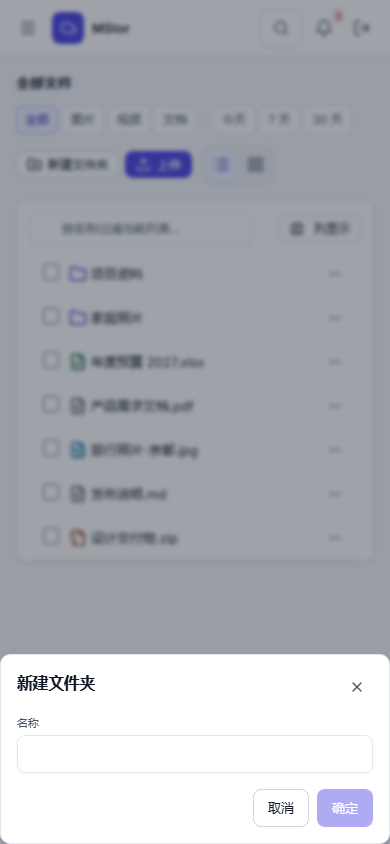
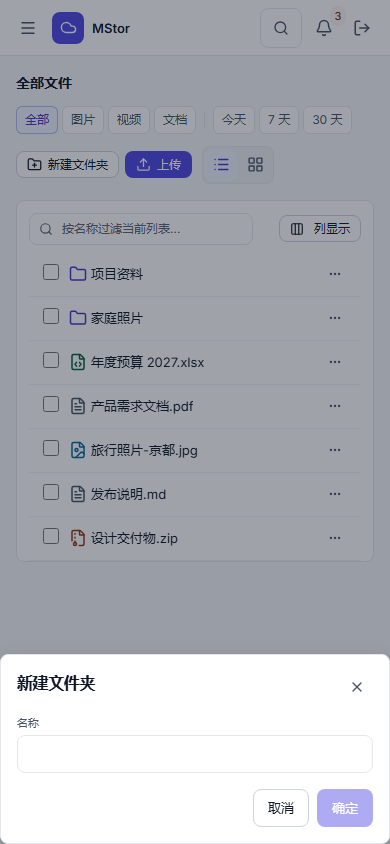
feat(design): v8 OpenDesign 校准（DESIGN.md / 平面表面 / 动效克制）
- 调研 OpenDesign 9 段 DESIGN.md schema 与 150+ 品牌设计系统，新增根 DESIGN.md
- 借鉴 Stripe/Linear/Vercel：中性导航 + 2px accent rail、内容卡片去投影、card 圆角 8、
  去掉 hover 位移/缩放与按钮 active 缩放、去掉遮罩 blur 与 spring 令牌、启用 optical sizing/标题 balance
- 新增 design-guard 反模式测试；visual:check 屏蔽 service worker，20/20 基线 diff 0.00%
- 客户端 262 例、server 29 项、双 tsc/eslint/build 全绿

diff --git a/client/src/test/design-guard.test.ts b/client/src/test/design-guard.test.ts
@@ -1,0 +1,41 @@
+import { readdirSync, readFileSync, statSync } from "node:fs";
+import path from "node:path";
+import { fileURLToPath } from "node:url";
+import { expect, test } from "vitest";
+
+/**
+ * OpenDesign anti-patterns 的自动化护栏：
+ * 只扫描 UI 实现（排除测试与 /design 演示页），防止「hover 位移/缩放、玻璃模糊、spring」回潮。
+ */
+const ROOT = path.resolve(path.dirname(fileURLToPath(import.meta.url)), "..");
+const BANNED: { pattern: RegExp; reason: string }[] = [
+  { pattern: /hover:-?translate/, reason: "禁止 hover 位移" },
+  { pattern: /group-hover:scale/, reason: "禁止 hover 缩放" },
+  { pattern: /active:scale/, reason: "禁止 active 缩放" },
+  { pattern: /backdrop-blur/, reason: "禁止玻璃模糊" },
+  { pattern: /--ease-spring/, reason: "禁止 spring 曲线" },
+  { pattern: /bg-gradient-to/, reason: "禁止渐变背景" },
+];
+
+function walk(dir: string): string[] {
+  return readdirSync(dir).flatMap((entry) => {
+    const full = path.join(dir, entry);
+    const st = statSync(full);
+    if (st.isDirectory()) return walk(full);
+    return /.(tsx?|css)$/.test(entry) ? [full] : [];
+  });
+}
+
+test("UI 实现不包含 OpenDesign 反模式", () => {
+  const files = walk(ROOT).filter(
+    (f) => !f.includes(".test.") && !f.endsWith("pages/DesignPage.tsx"),
+  );
+  const violations: string[] = [];
+  for (const file of files) {
+    const text = readFileSync(file, "utf8");
+    for (const { pattern, reason } of BANNED) {
+      if (pattern.test(text)) violations.push(`${path.relative(ROOT, file)}: ${reason}`);
+    }
+  }
+  expect(violations).toEqual([]);
+});

diff --git a/client/src/index.css b/client/src/index.css
@@ -99,7 +99,7 @@
   --radius-chip: 6px;
   --radius-btn: 8px;
   --radius-input: 8px;
-  --radius-card: 10px;
+  --radius-card: 8px;
   --radius-panel: 12px;
 
   /* 阴影：两级柔和，弹窗才抬升 */
@@ -124,7 +124,6 @@
   --text-2xl--line-height: 2rem;
 
   /* 动效：短促、可预期 */
-  --ease-spring: cubic-bezier(0.22, 1, 0.36, 1);
   --ease-out-soft: cubic-bezier(0.22, 1, 0.36, 1);
   --duration-fast: 120ms;
   --duration-slow: 180ms;
@@ -187,6 +186,7 @@ body {
   line-height: 1.5;
   -webkit-font-smoothing: antialiased;
   text-rendering: optimizeLegibility;
+  font-optical-sizing: auto;
   min-height: 100dvh;
 }
 
@@ -233,7 +233,6 @@ body {
 .glass-light {
   background: var(--color-surface-1);
   border: 1px solid var(--color-line);
-  box-shadow: var(--shadow-card);
   border-radius: var(--radius-card);
 }
 
@@ -278,8 +277,9 @@ body {
   transition: transform var(--duration-fast) var(--ease-out-soft), box-shadow var(--duration-fast) var(--ease-out-soft);
 }
 .hover-lift:hover {
-  transform: translateY(-1px);
-  box-shadow: var(--shadow-lift);
+  /* v8：内容表面只用边框/背景表达层级，不做位移或投影变化 */
+  transform: none;
+  box-shadow: none;
 }
 
 @media (prefers-reduced-motion: reduce) {

diff --git a/client/src/components/PreviewModal.tsx b/client/src/components/PreviewModal.tsx
@@ -29,7 +29,7 @@ export default function PreviewModal({ node, onClose }: Props) {
   const kind = previewKind(node.mime);
   const [text, setText] = useState<string | null>(null);
   const [error, setError] = useState("");
-  // 弹性进场：挂载后经两帧 rAF 切类，单次 transition 完成 modal-in（300ms ease-spring）
+  // 轻量进场：挂载后经两帧 rAF 切类，单次 transition 完成 modal-in（不再使用 spring）
   const [entered, setEntered] = useState(false);
   const panelRef = useRef<HTMLDivElement>(null);
 
@@ -82,7 +82,7 @@ export default function PreviewModal({ node, onClose }: Props) {
         role="dialog"
         aria-modal="true"
         aria-label={`预览 ${node.name}`}
-        className={`glass-strong flex min-h-0 flex-1 flex-col overflow-hidden rounded-panel transition-[opacity,transform] duration-300 ease-spring ${
+        className={`glass-strong flex min-h-0 flex-1 flex-col overflow-hidden rounded-panel transition-[opacity,transform] duration-300 ease-(--ease-out-soft) ${
           entered ? "scale-100 opacity-100" : "scale-[0.94] opacity-0"
         }`}
         onClick={onClose}

diff --git a/client/src/components/ui/Dialog.tsx b/client/src/components/ui/Dialog.tsx
@@ -27,12 +27,12 @@ export function Dialog({ open, onClose, title, children, footer, skin = "white" 
       <RadixDialog.Portal>
         <RadixDialog.Overlay
           data-testid="dialog-mask"
-          className="anim-fade fixed inset-0 z-overlay bg-ink/40 backdrop-blur-[2px]"
+          className="anim-fade fixed inset-0 z-overlay bg-ink/40"
         />
         <RadixDialog.Content
           data-testid="dialog-panel"
           className={cn(
-            "anim-pop fixed inset-x-0 bottom-0 z-modal mx-auto w-full rounded-t-panel p-4 pb-[calc(env(safe-area-inset-bottom)+1rem)] outline-none",
+            "anim-pop fixed inset-x-0 bottom-0 z-modal mx-auto w-full rounded-t-panel p-4 shadow-lift outline-none",
             "sm:inset-x-auto sm:top-1/2 sm:bottom-auto sm:left-1/2 sm:max-w-md sm:-translate-x-1/2 sm:-translate-y-1/2 sm:rounded-panel sm:p-4",
             skin === "glass" ? "glass-strong" : "glass",
           )}

diff --git a/client/src/components/CommandPalette.tsx b/client/src/components/CommandPalette.tsx
@@ -35,7 +35,7 @@ export function CommandPalette({ onOpen }: { onOpen?: () => void } = {}) {
         type="button"
         aria-label="搜索（⌘K）"
         onClick={openPalette}
-        className="glass state-layer flex h-10 items-center gap-2 px-3 text-sm text-ink-2 shadow-lift"
+        className="glass state-layer flex h-10 items-center gap-2 px-3 text-sm text-ink-2"
       >
         <Search size={16} aria-hidden />
         <span className="hidden lg:inline">搜索</span>
@@ -46,7 +46,7 @@ export function CommandPalette({ onOpen }: { onOpen?: () => void } = {}) {
         <RadixDialog.Portal>
           <RadixDialog.Overlay
             data-testid="dialog-mask"
-            className="anim-fade fixed inset-0 z-overlay bg-ink/40 backdrop-blur-[2px]"
+            className="anim-fade fixed inset-0 z-overlay bg-ink/40"
           />
           <RadixDialog.Content
             data-testid="dialog-panel"

diff --git a/client/src/components/FileCard.tsx b/client/src/components/FileCard.tsx
@@ -36,10 +36,10 @@ export function FileCard({ node, thumbSrc, badge, actions }: Props) {
               loading="lazy"
               decoding="async"
               onError={() => setThumbFailed(true)}
-              className="h-full w-full object-cover transition-transform duration-(--duration-320) ease-(--ease-out-soft) group-hover:scale-[1.03]"
+              className="h-full w-full object-cover"
             />
           ) : (
-            <span className="flex h-16 w-16 items-center justify-center rounded-2xl border border-line bg-surface-1 shadow-soft transition-transform duration-(--duration-320) ease-(--ease-out-soft) group-hover:scale-[1.03]">
+            <span className="flex h-16 w-16 items-center justify-center rounded-xl border border-line bg-surface-1">
               <NodeIcon node={node} size={34} />
             </span>
           )}

diff --git a/client/src/components/ui/Button.tsx b/client/src/components/ui/Button.tsx
@@ -12,7 +12,7 @@ export function Button({
   ...rest
 }: React.ButtonHTMLAttributes<HTMLButtonElement> & { variant?: "primary" | "ghost" | "danger"; size?: "md" | "sm" }) {
   const base =
-    "state-layer inline-flex items-center justify-center gap-1.5 rounded-btn border font-medium transition-[box-shadow,transform] duration-(--duration-fast) ease-[var(--ease-standard)] disabled:opacity-45 disabled:pointer-events-none tap active:scale-[0.985]";
+    "state-layer inline-flex items-center justify-center gap-1.5 rounded-btn border font-medium transition-colors duration-(--duration-fast) ease-[var(--ease-standard)] disabled:opacity-45 disabled:pointer-events-none tap";
   const sizes = { md: "px-3.5 py-2 text-sm", sm: "px-2.5 py-1 text-xs" };
   const variants = {
     primary: "border-transparent bg-primary text-white hover:bg-primary/90",

diff --git a/client/src/components/FileList.tsx b/client/src/components/FileList.tsx
@@ -220,7 +220,7 @@ export default function FileList({
   // 因此网格改用「描边 + ring」表达选中，与底色解耦
   const gridCellClass = (i: number, n: Node) =>
     [
-      "group relative overflow-hidden rounded-card border border-line bg-surface-1 shadow-soft transition-[box-shadow,transform] select-none [-webkit-touch-callout:none] hover:-translate-y-0.5 hover:shadow-card",
+      "group relative overflow-hidden rounded-card border border-line bg-surface-1 transition-colors select-none [-webkit-touch-callout:none] hover:border-line-strong",
       focusIndex === i ? "ring-2 ring-primary" : "",
       dragOverId === n.id ? "ring-2 ring-primary" : "",
       selected.has(n.id) && selectable ? "border-primary ring-2 ring-primary/45" : "",

diff --git a/client/src/components/ui/Surface.tsx b/client/src/components/ui/Surface.tsx
@@ -3,7 +3,7 @@ import { cn } from "../../lib/cn";
 
 /**
  * 内容表面（卡片/面板）：唯一的「描边 + 圆角 + 投影」出处。
- * 不要再手写 `rounded-card border border-line bg-surface-1 shadow-card` 这类组合。
+ * 不要再手写 `rounded-card border border-line bg-surface-1` 这类组合。
  * tone: card=最轻（列表/表单），raised=浮层（弹窗内分组、下拉）
  */
 export function Surface({
@@ -16,7 +16,7 @@ export function Surface({
     <div
       className={cn(
         "rounded-card border border-line bg-surface-1",
-        tone === "card" ? "shadow-card" : "shadow-lift",
+        tone === "raised" ? "shadow-lift" : "",
         className,
       )}
       {...rest}

diff --git a/client/src/test/node-shims.d.ts b/client/src/test/node-shims.d.ts
@@ -1,4 +1,20 @@
 // 客户端测试运行在 Node（Vitest）里：只声明用到的 node 内置模块，避免为测试引入 @types/node
 declare module "node:fs" {
   export function readFileSync(path: URL | string, encoding: "utf8"): string;
+  export function readdirSync(path: string): string[];
+  export function statSync(path: string): { isDirectory(): boolean };
+}
+
+declare module "node:path" {
+  const path: {
+    join(...parts: string[]): string;
+    resolve(...parts: string[]): string;
+    dirname(p: string): string;
+    relative(from: string, to: string): string;
+  };
+  export default path;
+}
+
+declare module "node:url" {
+  export function fileURLToPath(url: string | URL): string;
 }

diff --git a/client/src/components/ui/Input.tsx b/client/src/components/ui/Input.tsx
@@ -7,7 +7,7 @@ export function Input({ className, ...rest }: React.ComponentPropsWithRef<"input
   return (
     <input
       className={cn(
-        "w-full rounded-input border border-line bg-surface-1/70 px-3 py-2 text-sm text-ink shadow-soft backdrop-blur-sm transition-[border-color,box-shadow] duration-(--duration-fast) placeholder:text-ink-3 hover:border-line-strong focus:border-primary focus:outline-none",
+        "w-full rounded-input border border-line bg-surface-1 px-3 py-2 text-sm text-ink transition-colors duration-(--duration-fast) placeholder:text-ink-3 hover:border-line-strong focus:border-primary focus:outline-none",
         className,
       )}
       {...rest}

diff --git a/client/src/shell/MobileNavDrawer.tsx b/client/src/shell/MobileNavDrawer.tsx
@@ -39,7 +39,7 @@ export function MobileNavDrawer({
   return (
     <RadixDialog.Root open={open} onOpenChange={(next) => !next && onClose()}>
       <RadixDialog.Portal>
-        <RadixDialog.Overlay className="anim-fade fixed inset-0 z-modal bg-ink/40 backdrop-blur-sm md:hidden" />
+        <RadixDialog.Overlay className="anim-fade fixed inset-0 z-modal bg-ink/40 md:hidden" />
         <RadixDialog.Content
           data-testid="mobile-drawer"
           className="anim-pop fixed inset-y-0 left-0 z-modal flex w-72 max-w-[85vw] flex-col bg-surface-1 shadow-glass outline-none md:hidden"
